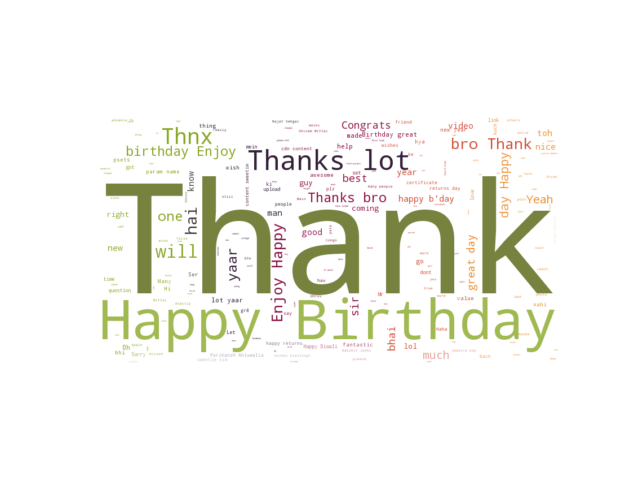
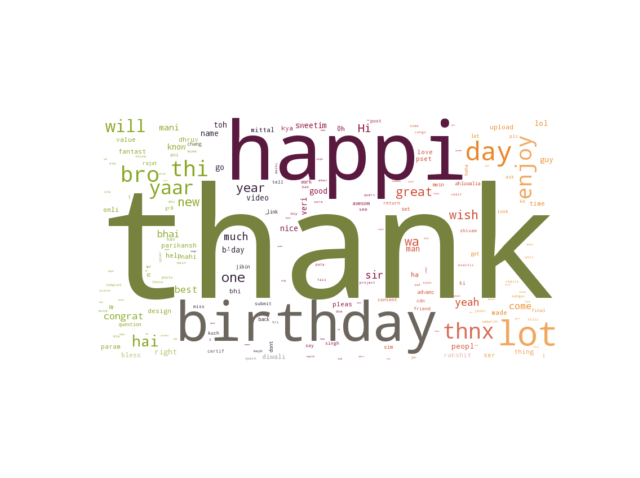
Edit plots and Language Detection

Changed region(s): [[0.1562, 0.2343, 0.875, 0.7615]]

diff --git a/wordclouds.py b/wordclouds.py
@@ -7,13 +7,14 @@ import nltk
 from nltk.stem import PorterStemmer
 from PIL import Image
 from nltk.tokenize import sent_tokenize, word_tokenize
+from langdetect import detect
 
 nltk.download('maxent_ne_chunker')
 nltk.download('words')
 nltk.download('punkt')
 nltk.download('averaged_perceptron_tagger')
 
-ps =PorterStemmer()
+ps = PorterStemmer()
 
 def wordcloud():
     loc = input('Enter facebook archive extracted location: ')
@@ -31,12 +32,20 @@ def wordcloud():
     
     final_text = ""
     final_comments = ""
+    languages = []
+    ctr=0
     if "comments" in base_data:
         data = base_data["comments"]
         
         for ele in data:
             if 'data' in ele:
                 ctext = ele["data"][0]["comment"]["comment"]
+                try:
+                    b = detect(ctext)
+                    #if b not in languages:
+                    languages.append(b)
+                except:
+                    ctr+=1
                 final_comments=final_comments + ' ' + ctext 
                 words = word_tokenize(ctext)
                 for w in words:
@@ -58,13 +67,25 @@ def wordcloud():
         for ele in data:
             if "data" in ele:
                 if "post" in ele["data"][0]:
+                    try:
+                        b = detect(ele["data"][0]["post"])
+                        #if b not in languages:
+                        languages.append(b)
+                    except:
+                        ctr+=1
                     words = word_tokenize(ele["data"][0]["post"])
                     for w in words:
                         final_text = final_text + ' ' + ps.stem(w)
-                        
+    
+    print("Your Most Common Language: ")
+    if max(languages,key=languages.count) =='en':
+        print('English')
+    else:
+        print(max(languages,key=languages.count))
+        
     if final_text != "":
-        mask = np.array(Image.open("images/mymask.png"))
-        wordcloud = WordCloud(collocations=False, mask = mask, max_font_size=300, relative_scaling = 1.0,
+        mask = np.array(Image.open("mymask.png"))
+        wordcloud = WordCloud(background_color = "white", collocations=False, mask = mask, max_font_size=300, relative_scaling = 1.0,
                           stopwords = set(STOPWORDS)
                           ).generate(final_text)
         image_colors = ImageColorGenerator(mask)
@@ -82,15 +103,17 @@ def wordcloud():
     flist = []
     fname = loc+'/friends/friends.json'
     if not os.path.isfile(fname):
-        print("The file your_posts.json is not present at the entered location.")
+        print("The file friends.json is not present at the entered location.")
         exit(1)
     with open(fname) as f:
         base_data = json.load(f)
     base_data = base_data["friends"]
     for ele in base_data:
         fwords = word_tokenize(ele["name"])
-        for fw in fwords:
-            flist.append(fw)
+        if fwords[0]!="Md" and fwords[0]!="Kumar":
+            flist.append(fwords[0])
+        else:
+            flist.append(fwords[1])
             
     if final_comments!="":
         friend_names = ""
